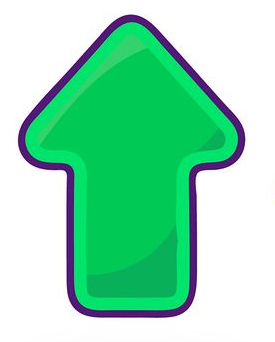
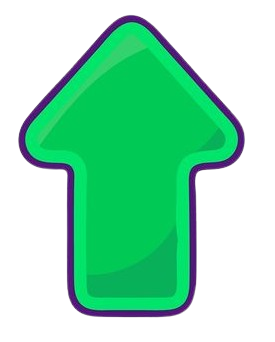
changing major colors

diff --git a/murtaza.css b/murtaza.css
@@ -69,7 +69,7 @@ body {
     font-family: "Knewave", system-ui;
     font-weight: 400;
     font-style: normal;
-    font-size: 300%;
+    font-size: 400%;
     line-height: 1;
     user-select: none;
     z-index: 4;
@@ -144,9 +144,6 @@ body {
 }
 }
 
-.socialDiv i {
-    transition: 0.3s ease-in-out all;
-}
 /* PROFILE BOX */
 
 .profileBox {
@@ -201,7 +198,15 @@ body {
     flex-direction: column;
     align-items: center;
     color: white;
-    background-color: rgb(0, 0, 0);
+     background-color: rgba(255, 109, 109, 0.8);
+    background-size: 300%;
+    backdrop-filter: blur(20px);
+    box-shadow:  2px 2px rgb(196, 195, 195);
+}
+
+@keyframes hueShift {
+    0% { filter: hue-rotate(0deg);}
+    100% {filter: hue-rotate(360deg)};
 }
 
 .socialBox {
@@ -211,7 +216,8 @@ body {
     flex-direction: column;
     color: white;
     align-items: center;
-    background-color: rgb(50, 81, 255);
+    background-color: rgba(255, 109, 109, 0.8);
+    box-shadow:  2px 2px rgb(196, 195, 195);
 }
 
 .statusBox {
@@ -222,7 +228,8 @@ body {
     flex-direction: column;
     align-items: center;
     color: white;
-    background-color: rgb(50, 255, 60);
+    background-color: rgba(255, 109, 109, 0.8);
+    box-shadow:  2px 2px rgb(196, 195, 195);
 }
 
 .socialDiv {
@@ -234,8 +241,9 @@ body {
     flex-wrap: wrap;
     align-items: center;
     justify-content: space-between;
-    background-color: rgb(50, 81, 255);
+    background-color: rgba(255, 109, 109, 0.8);
 }
+
 
 .aboutMe h1 {
     font-size: 80%;
@@ -257,6 +265,9 @@ body {
 .profilePic {
     width: 75px;
     height: 75px;
+    object-fit: cover;
+    background-size: cover;
+    background-position: center;
     visibility: visible;
     margin-left: 7%;
     user-select: none;
@@ -297,6 +308,7 @@ body {
     border-radius: 50%;
     width: 125px;
     height: 125px;
+    object-fit: cover;
     border: 1.5px solid orange;
     box-shadow: 2px 2px 2px rgb(255, 157, 45);
 }
@@ -308,7 +320,7 @@ body {
 .socialBox {
     height: 60%;
     width: 30%;
-    box-shadow: 3px 3px rgb(16, 46, 211);
+    box-shadow:  3px 3px rgb(196, 195, 195);
 }
 
 .aboutMe {
@@ -320,11 +332,11 @@ body {
 .statusBox {
     width: 25%;
     height: 60%;
-    box-shadow:  3px 3px rgb(22, 187, 31);
+    box-shadow:  3px 3px rgb(196, 195, 195);
 }
 
 .boxes div {
-    border-radius: 50px;
+    border-radius: 25px;
 }
 
 .socialDiv i {
@@ -345,7 +357,7 @@ body {
   font-weight: 700;
   font-style: normal;
   color: transparent;
-    background: linear-gradient(90deg,rgb(0, 238, 255),blue,cyan,rgb(0, 132, 255));
+    background: linear-gradient(90deg,blue,cyan,blue);
     background-size: 300%;
     background-clip: text;
 
@@ -408,7 +420,6 @@ nav h2 {
   font-family: "Madimi One", sans-serif;
   font-weight: 700;
   font-style: normal;
-  text-shadow: 1px 1px rgb(47, 231, 255);
 }
 
 
@@ -444,6 +455,12 @@ nav h2 {
     100% { transform: translateY(0);}
 }
 
+.innerViewBox {
+    display: flex;
+    justify-content: center;
+    align-items: center;
+}
+
 .viewBox {
     overflow: hidden;
     z-index: 4;
@@ -457,6 +474,83 @@ nav h2 {
     height: 50%;
     border-radius: 50px;
     background-color: rgba(240,248,255,0.9);
+}
+
+.artworkView {
+    z-index: 7;
+    visibility: hidden;
+    border-radius: 25px;
+    background-color: aquamarine;
+    display: flex;
+    flex-direction: column;
+    align-items: center;
+    width: 90%;
+    height: 90%;
+
+    transition: 0.3s ease-in-out all;
+}
+
+.artworkView h1 {
+    margin: 0;
+    margin-bottom: 2%;
+    text-shadow: 2px 2px orange;
+    font-size: 200%;
+  font-family: "Madimi One", sans-serif;
+  font-weight: 700;
+  font-style: normal;
+
+  color: transparent;
+  background: linear-gradient(90deg, rgba(255, 109, 109, 0.8), rgba(255, 255, 255, 0.8), rgba(255, 109, 109, 0.8));
+  background-size: 250%;
+  background-clip: text;
+  -webkit-text-fill-color: transparent;
+  -webkit-background-clip: text;
+
+  animation: statusHueShift 8s linear infinite;
+}
+
+.artDiv {
+    border: 2px solid orange;
+    border-radius: 25px;
+    height: 80%;
+    width: 90%;
+    padding-right: 1%;
+    background-color: rgba(255, 109, 109, 0.8);
+    display: flex;
+    flex-wrap: wrap;
+    overflow-y: auto;
+    overflow-x: hidden;
+}
+
+.popOutAni {
+    animation: popOut 3s linear forwards;
+}
+
+.popInAni {
+    animation: popIn 3s linear forwards;
+}
+
+@keyframes popOut {
+    50% { transform:  scale(1.025);}
+    100% { transform: scale(0);}
+}
+
+@keyframes popIn {
+    100% { transform: scale(1);}
+}
+
+.artDiv img {
+    margin-top: 2%;
+    margin-left: 2%;
+    border: 2px solid orange;
+    box-shadow: 2px 2px grey;
+    border-radius: 15px;
+}
+
+.artDiv img:hover {
+    cursor: pointer;
+    transform: scale(1.025);
+    border: 2px solid red;
 }
 
 
@@ -504,16 +598,26 @@ nav h2 {
 }
 
 @media (max-width: 767px){
-.upArrow {
+
+    .artworkView h1 {
+        font-size: 150%;
+    }
+    .artDiv img {
+        height: 30%;
+        width: auto;
+    }
+.upArrowImg {
     height: 24px;
     width: 22px;
     position: absolute;
     bottom: 5%;
     right: 5%;
     visibility: visible;
-    filter: hue-rotate(300deg);
+    filter: hue-rotate(250deg);
     -webkit-touch-callout: none;
     user-select: none;
+
+    transition: 0.3s ease-in all;
 }
 
 @keyframes hueRotate {
@@ -528,6 +632,10 @@ nav h2 {
 bottom: 5%;
 right: 5%;
 position: absolute;
+}
+
+#upArrow:checked + label .upArrowImg {
+   transform: rotate(180deg);
 }
 
 .profileBox:has(#upArrow:checked){
@@ -581,6 +689,8 @@ nav {
     margin-left: 5%;
     margin-top: 2%;
     visibility: visible;
+    border-radius: 25px;
+    box-shadow: 3px 3px 2px goldenrod;
     height: 50px;
     width: 53%;
     border: 2px solid orange;
@@ -617,18 +727,20 @@ nav {
 }
 
 nav h2 {
+    cursor: pointer;
     color: rgba(255, 153, 0, 0.8);
 }
 }
 
 @media(max-width: 767px){
     nav {
+        box-shadow: 2px 2px 1px goldenrod;
         padding: 1%;
-        border-top-right-radius: 20px;
+        border-radius: 15px;
         overflow-x: auto;
         overflow-y: hidden;
     z-index: 4;
-    margin-left: 20%;
+    margin-left: 15%;
     margin-top: 3%;
     visibility: visible;
     height: 25px;

diff --git a/index.html b/index.html
@@ -18,12 +18,29 @@ href="https://cdnjs.cloudflare.com/ajax/libs/font-awesome/6.5.1/css/all.min.css"
     <div class="vignette-box">
         <main class="viewBox">
             <div class="rotatingBorder"></div>
-            <div class="innerViewBox"></div>
+            <div class="innerViewBox">
+                <div class="artworkView">
+                    <h1>Artwork</h1>
+                    <div class="artDiv">
+                        <img src="./artwork/arima kana.jpg" height="40%" width="auto">
+                        <img src="./artwork/dr ratio.jpg" height="40%" width="auto">
+                        <img src="./artwork/huohuo.jpg" height="40%" width="auto">
+                        <img src="./artwork/aizen.png" height="40%" width="auto">
+                        <img src="./artwork/itadori.jpg" height="40%" width="auto">
+                        <img src="./artwork/makoto.png" height="40%" width="auto">
+                        <img src="./artwork/zzz.jpg" height="40%" width="auto">
+                        <img src="./artwork/sam.jpg" height="40%" width="auto">
+                        <img src="./artwork/frieren.jpg" width="auto" height="40%">
+                        <img src="./artwork/meliodas.jpg" height="40%" width="auto">
+                        <img src="./artwork/sjw.png" height="40%" width="auto">
+                    </div>
+                </div>
+            </div>
         </main>
     <h1 class="mainName">Syed Murtaza<br>Husain Jafri.</h1>
     <div class="trapezoidBg"></div>
     <aside class="profileBox">
-        <img src="profilePic.jpg" class="profilePic" alt="Profile Picture">
+        <img src="eid.jpeg" class="profilePic" alt="Profile Picture">
         <div class="profileBoxInner">
             <nav>
                 <div class="orange"></div>
@@ -31,7 +48,7 @@ href="https://cdnjs.cloudflare.com/ajax/libs/font-awesome/6.5.1/css/all.min.css"
                 <div class="orange"></div>
                 <h2 class="ServicesTab">Services</h2>
                 <div class="orange"></div>
-                <h2 class="Artwork">Artwork</h2>
+                <h2 class="Artwork" id="artworkButton">Artwork</h2>
                 <div class="orange"></div>
                 <h2 class="ContactTab">Contact</h2>
             </nav>
@@ -46,11 +63,10 @@ href="https://cdnjs.cloudflare.com/ajax/libs/font-awesome/6.5.1/css/all.min.css"
                 </div>
             </div>
             <div class="statusBox"><h1 class="boxesText">Status</h1><p>Currently Studying Java.</p></div>
-            </div>
+             <input type="checkbox" id="upArrow">
             <label class="upArrow" for="upArrow">
-            <img src="up-arrow-icon.png" class="upArrow" alt="upArrow">
+            <img src="up-arrow-icon.png" class="upArrowImg" alt="upArrow">
             </label>
-        <input type="checkbox" id="upArrow"></div>
     </aside>
     </div>
 </body>

diff --git a/murtaza.js b/murtaza.js
@@ -37,4 +37,16 @@ document.addEventListener('DOMContentLoaded', function() {
         circle.appendChild(innerCircle);
         circleContainer.appendChild(circle);
     }
+
+    const artworkButton = document.getElementById('artworkButton');
+    const artworkContent = document.querySelector('.artworkView');
+
+    artworkButton.addEventListener('click',() => {
+        if(artworkContent.style.visibility == 'visible'){
+           artworkContent.style.visibility = 'hidden';
+        }
+        else {
+             artworkContent.style.visibility = 'visible';
+        }
+    })
 })